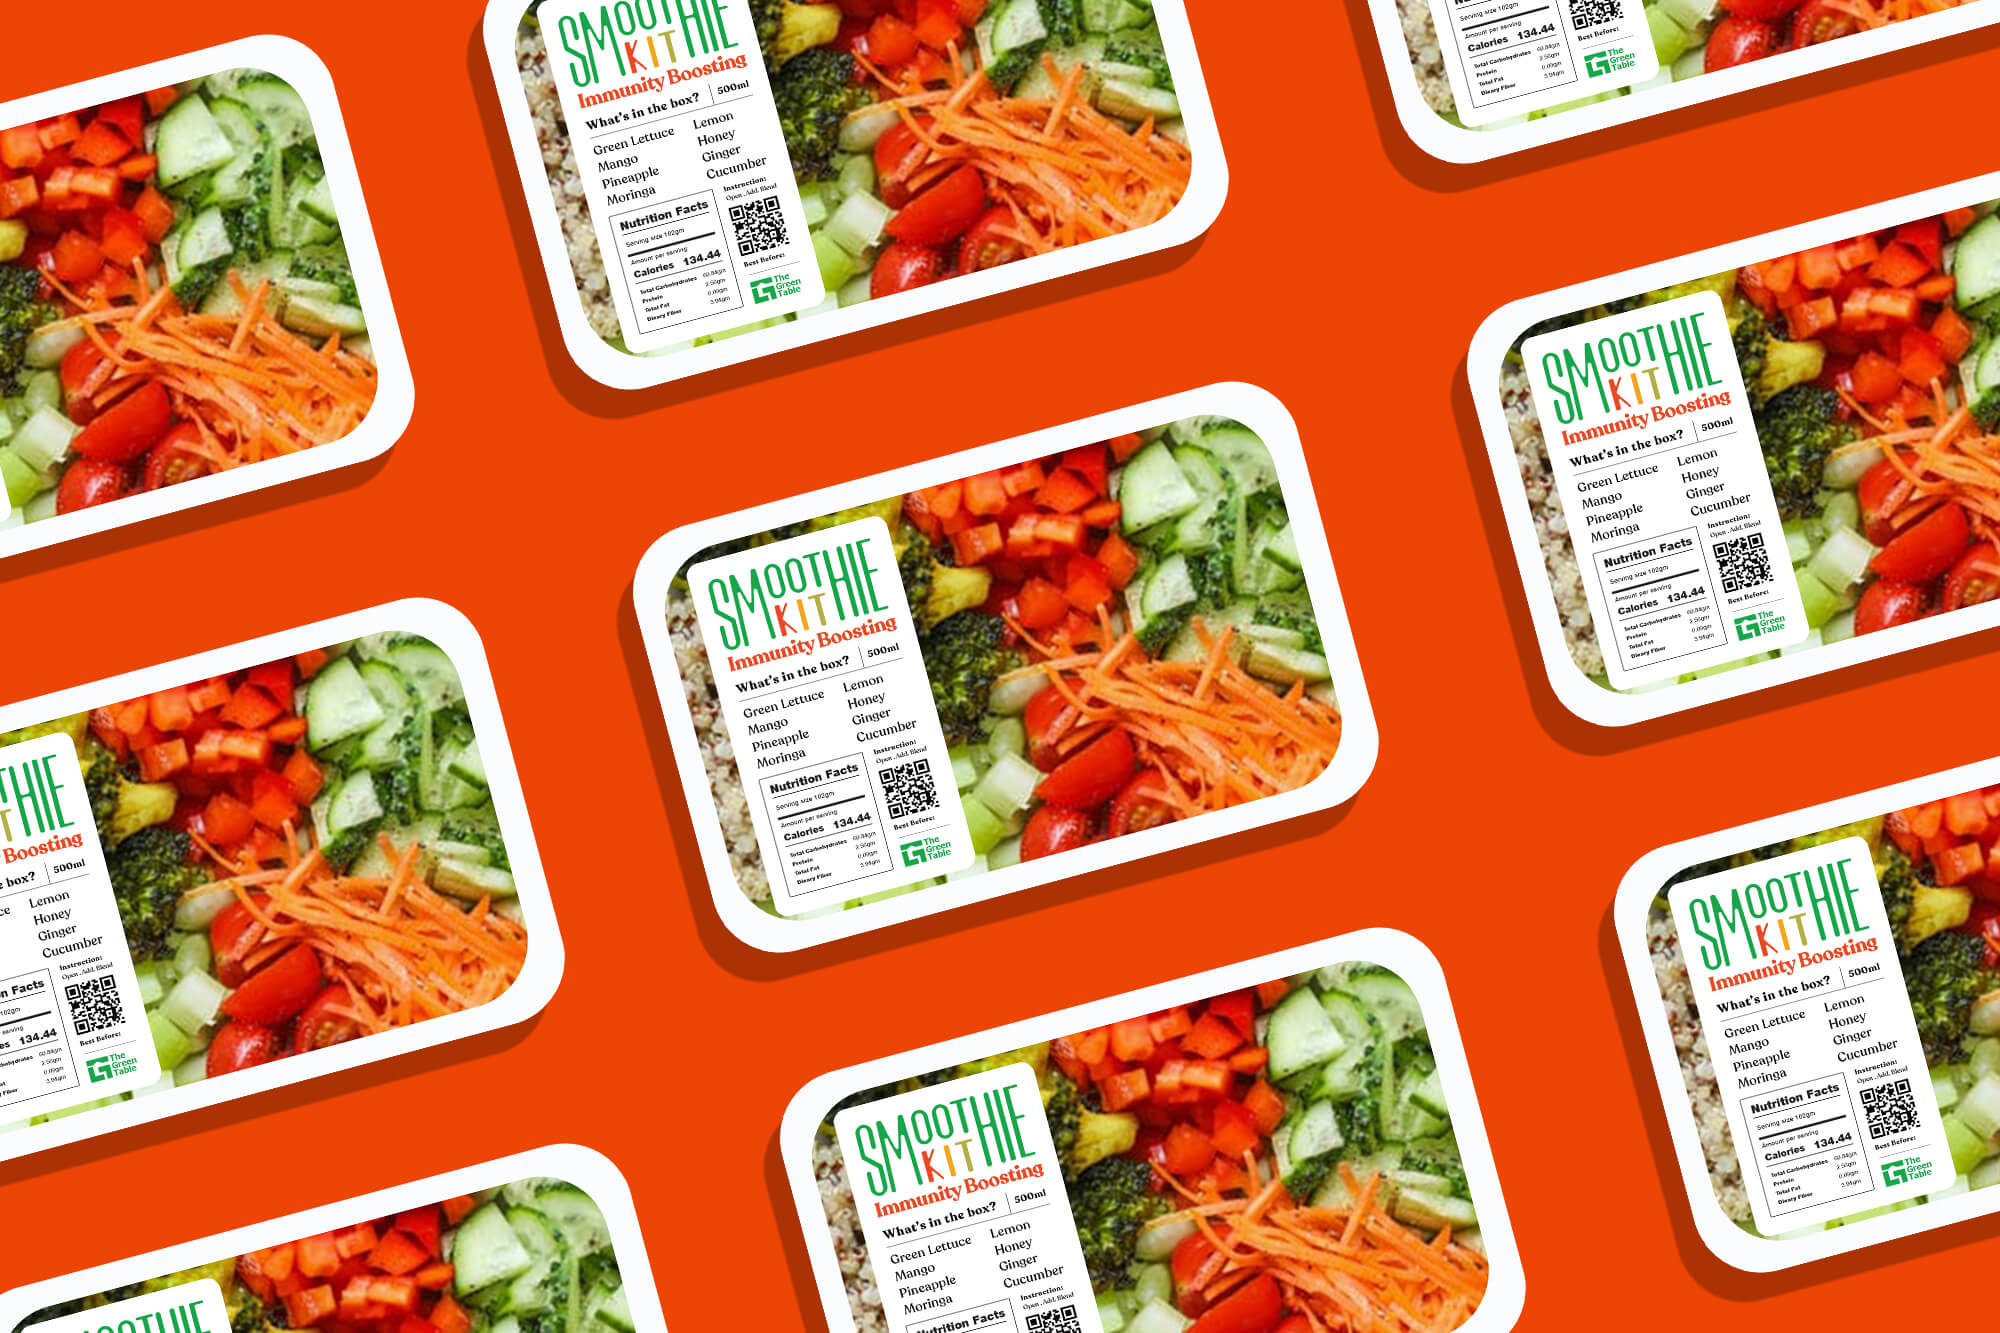
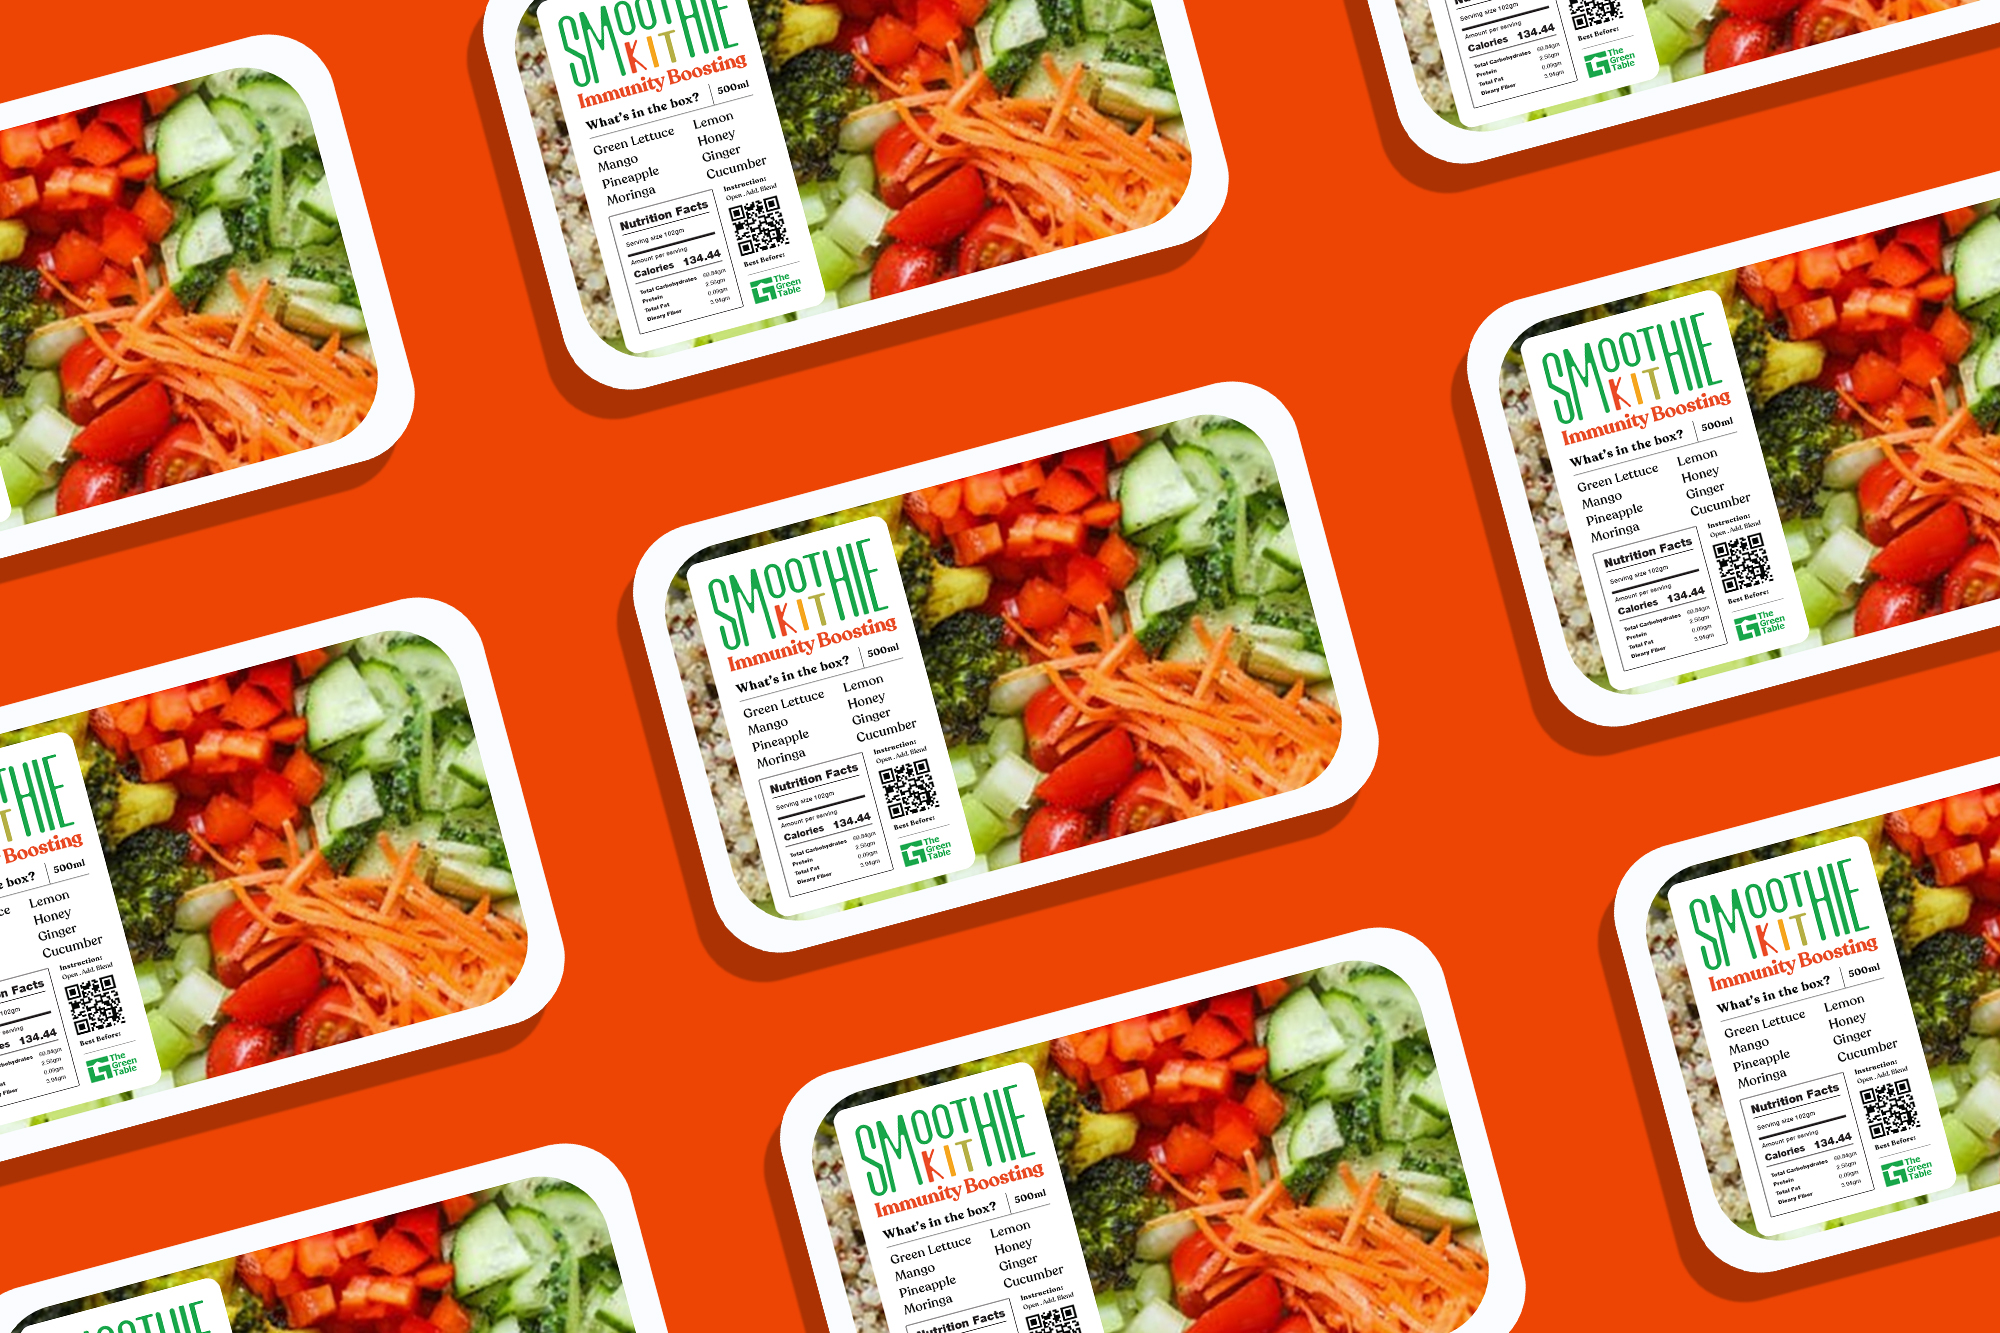
image quality

diff --git a/gatsby-config.js b/gatsby-config.js
@@ -53,7 +53,8 @@ module.exports = {
           {
             resolve: `gatsby-remark-images`,
             options: {
-              maxWidth: 1140,
+              maxWidth: 6000,
+              quality: 100,
               linkImagesToOriginal: false,
               wrapperStyle: `margin-bottom: 1.5rem;`
             },

diff --git a/src/components/HomePage/HomeCarousel.js b/src/components/HomePage/HomeCarousel.js
@@ -24,7 +24,7 @@ const HomeCarousel = () => {
             alt
             img {
               childImageSharp {
-                fluid(maxWidth: 1080, quality: 95) {
+                fluid(maxWidth: 2000, quality: 100) {
                   ...GatsbyImageSharpFluid
                 }
               }

diff --git a/src/components/HomePage/HighlightWorks.js b/src/components/HomePage/HighlightWorks.js
@@ -24,7 +24,7 @@ const HighlightWorks = () => {
               title
               thumbnail {
                 childImageSharp {
-                  fluid(quality: 90) {
+                  fluid(quality: 98) {
                     ...GatsbyImageSharpFluid
                   }
                 }

diff --git a/src/components/WorkTemplatePage/MoreProjects.js b/src/components/WorkTemplatePage/MoreProjects.js
@@ -16,7 +16,7 @@ const MoreProjects = ({ currentPage }) => {
               title
               thumbnail {
                 childImageSharp {
-                  fluid {
+                  fluid(quality: 98) {
                     ...GatsbyImageSharpFluid
                   }
                 }

diff --git a/src/pages/news.js b/src/pages/news.js
@@ -25,7 +25,7 @@ const IndexPage = () => {
               category
               thumbnail {
                 childImageSharp {
-                  fluid(quality: 92) {
+                  fluid(quality: 98) {
                     ...GatsbyImageSharpFluid
                   }
                 }

diff --git a/src/components/WorksPage/AllWorks.js b/src/components/WorksPage/AllWorks.js
@@ -19,7 +19,7 @@ const AllWorks = () => {
               title
               thumbnail {
                 childImageSharp {
-                  fluid(quality: 90) {
+                  fluid(quality: 98) {
                     ...GatsbyImageSharpFluid
                   }
                 }

diff --git a/content/work/the-green-table/index.md b/content/work/the-green-table/index.md
@@ -1,7 +1,7 @@
 ---
 date: 2021-03-18T02:54:36.993Z
 title: The Green Table
-thumbnail: 1-diy-smoothie-kit-tribox-design.jpg
+thumbnail: 1-DIY-Smoothie-Kit-Tribox-Design.jpg
 description: The Tribox Design team worked closely with The Green Table’s
   founder, Mr. Neil Kho, to develop the new brand identity of his farm produce
   and products company. The Green Table was founded in 2017, a product of Green
@@ -45,9 +45,9 @@ They envisioned to be the first choice for healthy smoothies and locally produce
 
 <!--EndFragment-->
 
-![The Green Table Ph - Tribox Design](0-official-the-green-table-logo-tribox-design.jpg "The Green Table Ph - Tribox Design")
+![The Green Table Ph - Tribox Design](0-Official-The-Green-Table-Logo-Tribox-Design.jpg "The Green Table Ph - Tribox Design")
 
-![The Green Table Ph - Smoothie kit Detoxing Green](2-official-the-green-smoothie-kit-tribox-design.jpg "The Green Table Ph - Smoothie kit Detoxing Green")
+![The Green Table Ph - Smoothie kit Detoxing Green](2-Official-The-Green-Smoothie-Kit-Tribox-Design.jpg "The Green Table Ph - Smoothie kit Detoxing Green")
 
 ![The Green Table Ph - Smoothie kit Tropical Mango](3-official-the-green-smoothie-kit-tribox-design.jpg "The Green Table Ph - Smoothie kit Tropical Mango")
 
